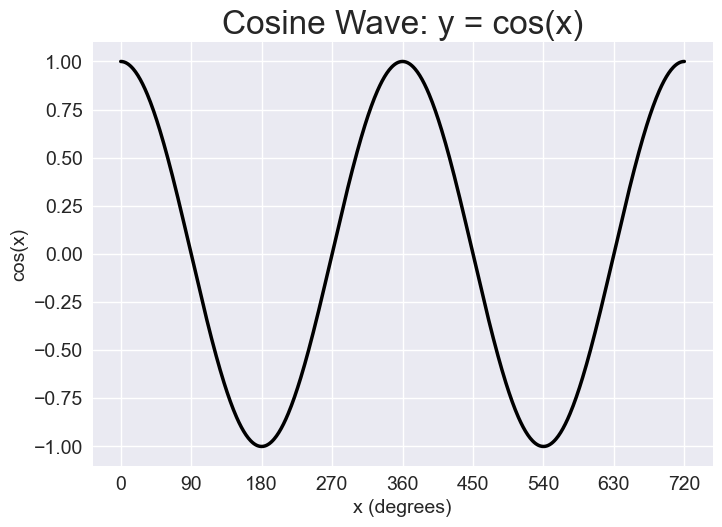
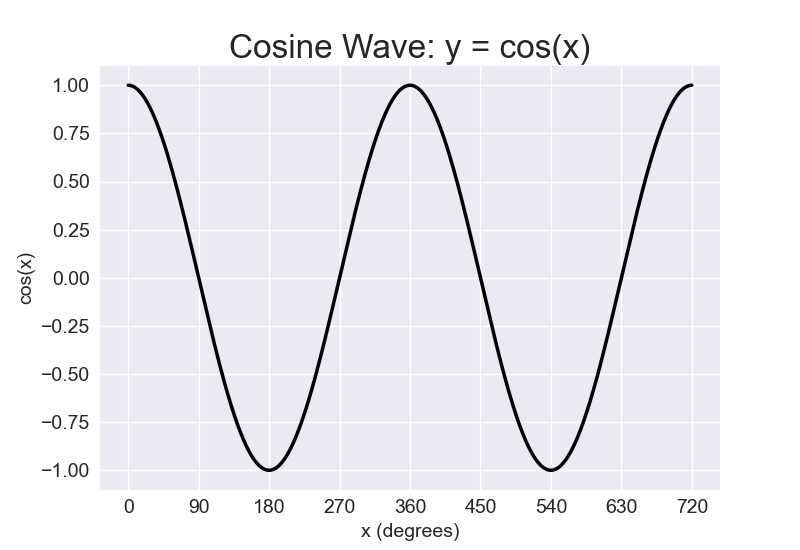
Very Minor Changes
Very Minor Changes.

diff --git a/cosine_wave.py b/cosine_wave.py
@@ -6,7 +6,8 @@ Professor: Travis Burke
 Date: 11/22/2026
 Purpose: Generating data and visualizing it using the matplotlib library 
 - Imported the matplotlib.pyploy and math
-Starter Code: Based on Chapter 15 of the Textbook but mostly from the Weekly Lecture recording on November 19th and the instructions on Blackboard
+Starter Code: Based on Chapter 15 of the Textbook but mostly from the Weekly Lecture recording on November 19th and the instructions on Blackboard. Searched some things up such as saving the png file.
+- https://www.geeksforgeeks.org/python/matplotlib-pyplot-savefig-in-python/
 """
 
 import math
@@ -34,6 +35,6 @@ ax.set_ylabel("cos(x)", fontsize=14)
 ax.set_xticks(range(0, 721, 90))
 ax.tick_params(labelsize=14)
 
-"""Showing the Image"""
-plt.savefig("cosine.png", bbox_inches="tight")
+"""Saving and Showing the Image"""
+plt.savefig("cosine.png")
 plt.show()
